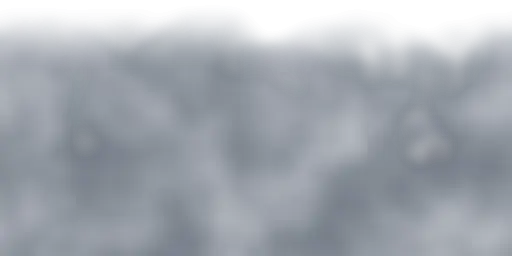
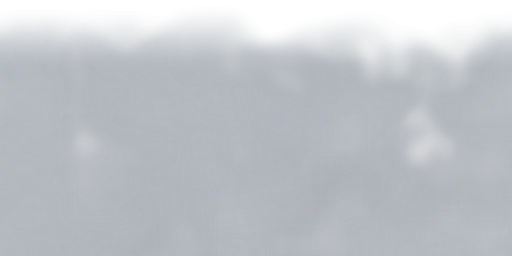
Путь: туман легче — полупрозрачная вуаль, путь под ней плавно гаснет

diff --git a/src/index.css b/src/index.css
@@ -345,6 +345,8 @@ html.theme-anim *::after {
 .fog-edge { background: url('./path/fog/fog-edge-light.webp') repeat-x 0 0 / 512px 256px; }
 .fog-body { background: url('./path/fog/fog-body-light.webp') repeat 0 0 / 512px 512px; }
 .fog-wisp { background: url('./path/fog/fog-wisp-light.webp') repeat-x 0 0 / 512px 220px; }
+/* Глубина тумана: от прозрачного к цвету фона за 190 px — путь под дымом гаснет, сам дым остаётся лёгким. */
+.fog-depth { background: linear-gradient(to bottom, transparent, var(--c-bg) 190px); }
 @media (prefers-color-scheme: dark) {
   :root:not([data-theme='light']) .fog-edge { background-image: url('./path/fog/fog-edge-dark.webp'); }
   :root:not([data-theme='light']) .fog-body { background-image: url('./path/fog/fog-body-dark.webp'); }

diff --git a/src/path/Fog.tsx b/src/path/Fog.tsx
@@ -27,6 +27,8 @@ export function Fog({ top }: { top: number }) {
 
   return (
     <div ref={ref} aria-hidden className="pointer-events-none absolute -right-4 bottom-0 -left-4 overflow-hidden" style={{ top: top - FOG_LEAD }}>
+      {/* глубина: под дымом путь плавно уходит в фон — дальше двух мест его не видно, обрыва нет */}
+      <div className="fog-depth absolute inset-x-0 bottom-0" style={{ top: FOG_LEAD + 10 }} />
       {/* основной дым: край и сплошной дым едут вместе, плитки стыкуются без шва */}
       <div className="fog-drift absolute inset-y-0 left-0 w-[calc(100%+512px)]">
         <div className="fog-edge h-[256px]" />

diff --git a/SPEC.md b/SPEC.md
@@ -339,7 +339,7 @@
 - 2026-10-19 — Звук нижних вкладок — по отпусканию пальца (pointerup), а не по click: вкладка переключается при касании, и iPhone иногда не присылал click (звука не было на «Пути», «Словах», «Профиле»). В форме слова клавиша клавиатуры — синяя галочка «Готово», она убирает клавиатуру (как в форме колоды); подсказка «Автозаполнить контакт» выключена.
 - 2026-10-19 — «Пары» — после того как в уроке встретились 5 разных слов, не раньше 60% урока; слова — только из этого урока. Точность в итоге — только по заданиям с оценкой FSRS; серия «N ПОДРЯД» считает и лёгкое задание.
 - 2026-10-19 — Путь (этап 7), решение владельца: **сначала повторения, потом новые** (как в Anki, чтобы не копились долги). Пока есть повторения к сроку (повторения на сегодня в пределах лимита и слова в обучении, чьё время пришло), новые слова узла не открываются: всплывашка текущего узла пишет «Сначала повтори N слов» и даёт кнопку «ПОВТОРИТЬ». Когда сделаны — урок узла: его новые слова первыми, повторения — на оставшееся место урока. В уроке узла новые слова идут в самом начале. Покрыто тестами (`src/srs/srs.test.ts`).
-- 2026-10-19 — Состояние узла пути считается по словам (`src/game/path.ts`), отдельно не хранится: пройден — у всех слов узла есть первая оценка; освоен — у всех стабильность ≥ 21 дня; текущий — первый непройденный во всём пути; остальные непройденные закрыты, пройденные после текущего остаются пройденными. Замороженные и удалённые слова в узлы не входят. Сундук — после каждого 3-го узла колоды, 10–20 💎, открытые записаны в профиле (`chestsClaimed`, ключ «колода:номер»); схема базы и бэкапа не меняется. Исчерпан дневной лимит новых — «Новые слова — завтра»; кнопка «+5 новых» — на этапе 8 вместе с экраном 6.5. Полоса сверху (🔥, 💎, кольцо цели) — этап 8. Временная кнопка «УЧИТЬ» убрана. Узлы нарезаются по текущему порядку слов: если удалить или заморозить слово из раннего узла, слова сдвигаются и узел может снова стать текущим (сундуки и прогресс слов от этого не теряются). По проверке владельца на iPhone (путь из 1–2 уроков выглядел «непонятно», сундука и кристаллов не было видно): кружки соединены дорожкой (пройденное — сплошная линия цвета колоды, впереди — точки); в конце каждого раздела — места будущих уроков «+» (нажатие — «добавь слова») и закрытый сундук-цель, так что сундук виден с первого урока; счётчик 💎 — в шапке «Пути» уже сейчас (полная полоса — этап 8). Третий заход по виду (по просьбе владельца «красивее» и «что будет при 500 уроках»): широкая тропинка, сочные узлы с бликом и сиянием, прилипающая плашка раздела, искорки; пройденные колоды выше текущей сворачиваются в плитку, над текущим — не больше 6 мест («Показать ещё»), под ним — 2 места и туман (идея владельца: пушистые облака как в Clash of Clans, без размытия и без текста; когда путь открывается — облака разъезжаются), кнопка «к текущему»; в конце раздела — один «+» и сундук-цель с номером урока. Логика окна — `src/game/pathView.ts` с тестами. Туман переделан по образцу владельца (`references/туман-PvZ.jpg`): облака-кружки убраны; по его отзыву — серый дым в обеих темах (в тёмной не тёмно-синий), без мелких бугорков; клубящийся дым — готовые картинки WebP из шума (`npm run fog`), тянется до низа экрана без обрыва, «резинка» внизу пути выключена, край отступает после урока. Сундук открывается в момент касания (крышка, «+N 💎», звук), запись — следом; если записать не вышло — сундук снова закрыт, награды нет.
+- 2026-10-19 — Состояние узла пути считается по словам (`src/game/path.ts`), отдельно не хранится: пройден — у всех слов узла есть первая оценка; освоен — у всех стабильность ≥ 21 дня; текущий — первый непройденный во всём пути; остальные непройденные закрыты, пройденные после текущего остаются пройденными. Замороженные и удалённые слова в узлы не входят. Сундук — после каждого 3-го узла колоды, 10–20 💎, открытые записаны в профиле (`chestsClaimed`, ключ «колода:номер»); схема базы и бэкапа не меняется. Исчерпан дневной лимит новых — «Новые слова — завтра»; кнопка «+5 новых» — на этапе 8 вместе с экраном 6.5. Полоса сверху (🔥, 💎, кольцо цели) — этап 8. Временная кнопка «УЧИТЬ» убрана. Узлы нарезаются по текущему порядку слов: если удалить или заморозить слово из раннего узла, слова сдвигаются и узел может снова стать текущим (сундуки и прогресс слов от этого не теряются). По проверке владельца на iPhone (путь из 1–2 уроков выглядел «непонятно», сундука и кристаллов не было видно): кружки соединены дорожкой (пройденное — сплошная линия цвета колоды, впереди — точки); в конце каждого раздела — места будущих уроков «+» (нажатие — «добавь слова») и закрытый сундук-цель, так что сундук виден с первого урока; счётчик 💎 — в шапке «Пути» уже сейчас (полная полоса — этап 8). Третий заход по виду (по просьбе владельца «красивее» и «что будет при 500 уроках»): широкая тропинка, сочные узлы с бликом и сиянием, прилипающая плашка раздела, искорки; пройденные колоды выше текущей сворачиваются в плитку, над текущим — не больше 6 мест («Показать ещё»), под ним — 2 места и туман (идея владельца: пушистые облака как в Clash of Clans, без размытия и без текста; когда путь открывается — облака разъезжаются), кнопка «к текущему»; в конце раздела — один «+» и сундук-цель с номером урока. Логика окна — `src/game/pathView.ts` с тестами. Туман переделан по образцу владельца (`references/туман-PvZ.jpg`): облака-кружки убраны; по его отзыву — серый дым в обеих темах (в тёмной не тёмно-синий), без мелких бугорков; затем «менее густой» — полупрозрачная вуаль, путь под ней плавно гаснет в фон; клубящийся дым — готовые картинки WebP из шума (`npm run fog`), тянется до низа экрана без обрыва, «резинка» внизу пути выключена, край отступает после урока. Сундук открывается в момент касания (крышка, «+N 💎», звук), запись — следом; если записать не вышло — сундук снова закрыт, награды нет.
 - 2026-10-18 — Напоминание о бэкапе: плашка в Профиле, пока копии нет или она старше 7 дней (и есть хотя бы одно слово); после урока — та же плашка на итоге, не чаще раза в неделю (отметка `backupNudgeAt` в профиле).
 
 ---

diff --git a/DESIGN.md b/DESIGN.md
@@ -81,7 +81,7 @@ Nunito (`@fontsource/nunito`). Заголовки 900, подзаголовки 
 - **Дорожка пути**: места (узлы, сундуки, «+») — столбиком по центру с шагом 108 (у текущего — 160, сверху место под «НАЧАТЬ»), со сдвигом вбок по волне 0 → 44 → 70 → 44 → 0 → −44 → −70 → −44 (в чётных разделах — зеркально). Под местами — широкая мягкая тропинка 30 px с круглыми концами, плавные изгибы (выход и вход вертикально): до мест, куда путь дошёл, — цвет колоды 35%, дальше — `--c-road` 70%. На свободной стороне волны — маскот 96 у 3-го видимого места и мерцающие искорки (четырёхлучевые звёздочки 20 и 12 `--c-xp`, масштаб и поворот, 2,6 с).
 - **Окно пути** (чтобы при сотнях уроков путь занимал 1–2 экрана): пройденные колоды выше текущей — «Свёрнутый раздел»; в разделе с текущим узлом над ним — не больше 6 мест, выше — текстовая кнопка «Показать ещё N пройденных уроков»; под текущим — 2 места ясно и ещё 2 под туманом, дальше путь не рисуется. Развёрнутый раздел — текстовая кнопка «Свернуть раздел» под ним.
 - **Свёрнутый раздел**: плитка `--c-bg`, рамка 2 px и нижняя тень 4 px `--c-border`, скругление 16, отступы 12/16; слева круг 44 цвета колоды (тень 3 px её цвета-тени) с галочкой; название с эмодзи 17/800, строка 13/700 `--c-text-muted` «Раздел 1 · 12 уроков · 👑 4»; справа шеврон вниз 24 `--c-text-muted`. Нажатие — `press-3d`, разворачивает раздел.
-- **Туман пути** (образец — `references/туман-PvZ.jpg`, туман из Plants vs Zombies): мягкий серый клубящийся дым — крупные мягкие клубы (без мелких бугорков и бликов — иначе «пупырышки») и дымчатые разводы; свет мягкий, сверху; край неровный, полупрозрачный и плавно растворяется (сквозь него чуть проглядывает путь), ниже — плотно. Без текста. Цвет — серый, как в образце: светлая тема — белёсо-серый (тень `#9EA5B0`, середина `#CDD2DA`, свет `#FAFBFC`), тёмная — серый, светлее фона, но приглушённый (`#585E68`, `#848B95`, `#BEC3CA`). Это **готовые картинки** WebP (плитка 512 px: край 512×256, сплошной дым 512×512, струйки 512×220, для каждой темы), их один раз рисует программа `npm run fog` (`scripts/gen-fog.mjs`); в приложении нет живых фильтров, размытия и backdrop-filter. Плотный дым начинается у первого места под туманом (2 места под текущим) и тянется до самого низа списка (список не короче экрана), прокрутка в него упирается: можно долистать ~треть экрана, «резинки» внизу нет — обрыва не видно. Клубится медленно и едва заметно: основной слой едет вбок на одну плитку за 90 с, струйки — в другую сторону за 60 с и покачиваются на 8 px (7 с) — только transform. Прошёл урок — край плавно отступает вниз на новое место (сдвиг со старого места, 1,4 с, `cubic-bezier(0.22, 1, 0.36, 1)`). Касания проходят сквозь туман. При «Уменьшении движения» дым неподвижен и край встаёт сразу.
+- **Туман пути** (образец — `references/туман-PvZ.jpg`, туман из Plants vs Zombies): мягкий серый клубящийся дым — крупные мягкие клубы (без мелких бугорков и бликов — иначе «пупырышки») и дымчатые разводы; свет мягкий, сверху; край неровный и плавно растворяется. Дым не стена, а лёгкая вуаль (решение владельца — «менее густой»): светлые клубы гуще, провалы прозрачнее; под дымом путь плавно уходит в цвет фона (градиент от прозрачного к `--c-bg` за 190 px) — первый урок под туманом угадывается, второй почти растворился, обрыва пути не видно. Без текста. Цвет — серый, как в образце: светлая тема — белёсо-серый (тень `#9EA5B0`, середина `#CDD2DA`, свет `#FAFBFC`), тёмная — серый, светлее фона, но приглушённый (`#585E68`, `#848B95`, `#BEC3CA`). Это **готовые картинки** WebP (плитка 512 px: край 512×256, сплошной дым 512×512, струйки 512×220, для каждой темы), их один раз рисует программа `npm run fog` (`scripts/gen-fog.mjs`); в приложении нет живых фильтров, размытия и backdrop-filter. Плотный дым начинается у первого места под туманом (2 места под текущим) и тянется до самого низа списка (список не короче экрана), прокрутка в него упирается: можно долистать ~треть экрана, «резинки» внизу нет — обрыва не видно. Клубится медленно и едва заметно: основной слой едет вбок на одну плитку за 90 с, струйки — в другую сторону за 60 с и покачиваются на 8 px (7 с) — только transform. Прошёл урок — край плавно отступает вниз на новое место (сдвиг со старого места, 1,4 с, `cubic-bezier(0.22, 1, 0.36, 1)`). Касания проходят сквозь туман. При «Уменьшении движения» дым неподвижен и край встаёт сразу.
 - **Место будущего урока** («+»): одно в конце раздела, круг 72 с пунктирной рамкой 3 px `--c-road`, фон `--c-bg`, плюс 30 `--c-text-muted`, нажатие `press-soft`; всплывашка «Новый урок» — «Добавь слова в «Фрукты» — каждые 5 слов становятся уроком» и основная «ДОБАВИТЬ СЛОВА» (открывает колоду). За ним — ближайший сундук-цель (закрытый).
 - **Счётчик кристаллов** (шапка «Пути», до полосы этапа 8): «Чип в шапке» — кристалл `--c-gem` и число; тап — всплывашка «Кристаллы: 19 💎» и за что даются.
 - **Раздел пути** (плашка колоды): карточка цвета колоды, скругление 16, нижняя тень 4 px её цвета-тени, отступы 16, между разделами 24. Слева: строка 13/900 заглавными «РАЗДЕЛ 1» и под ней название 20/900 с эмодзи — текст `--c-on-color`. Справа кнопка 44 (скругление 12, фон — цвет-тень колоды, книга 24 `--c-on-color`, `press-soft`) — открывает слова колоды.
